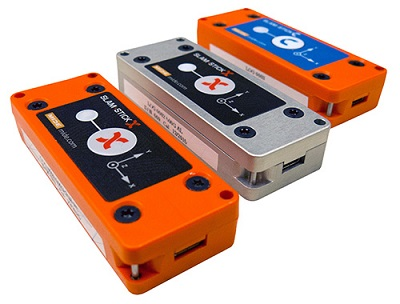
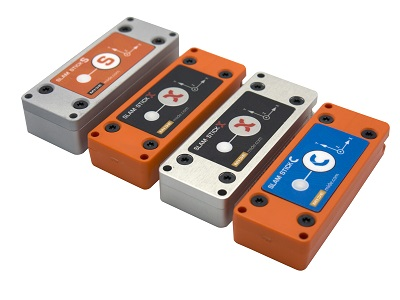
Updated about box; fixed #92

diff --git a/ABOUT/about.html b/ABOUT/about.html
@@ -2,14 +2,8 @@
 <a name="top" href="http://info.mide.com/data-loggers/slam-stick-lab-software"><img src="ssl.jpg"/></a><br/>
 Version {{version}}, build {{buildNumber}}, {{buildTime}}<br/>
 <font size="-1">(last update check: {{lastUpdateCheck}})</font></br>
-<p>Copyright (c) 2017 <a href="http://www.mide.com/">Mid&eacute; Technology</a></p>
+<p>Copyright &copy; {{copyright}} <a href="http://www.mide.com/">Mid&eacute; Technology</a></p>
 </center>
-<!--
-<p>
-This is the <i>new and improved</i> about box. It is here that the software should be described in
-detail. There's a lot of room for whatever.</p>
-<p>
--->
 <br/>
 <hr/>
     <h3>Credits</h3>
@@ -23,7 +17,12 @@ detail. There's a lot of room for whatever.</p>
             <tr>
                 <td width="50%" align="right"><b>Peter Scheidler</b></td>
                 <td>&nbsp;</td>
-                <td width="50%">Developer</td>
+                <td width="50%">Contributing Developer</td>
+            </tr>
+            <tr>
+                <td width="50%" align="right"><b>Connon Flanigan</b></td>
+                <td>&nbsp;</td>
+                <td width="50%">Contributing Developer</td>
             </tr>
             <tr>
                 <td width="50%" align="right"><b>Tim Gipson</b></td>
@@ -32,26 +31,12 @@ detail. There's a lot of room for whatever.</p>
             </tr>
         </table>
     </center>
-</p><hr/>
+<p/><hr/>
 <h3>Supported Products</h3>
 <a href="http://www.mide.com/collections/shock-vibration-data-loggers">
-<h4>Slam&bull;Stick Shock &amp; Vibration Data Loggers</h4></a>
-
+<h4><b>Slam&bull;Stick&trade;</b> Shock &amp; Vibration Data Loggers</h4></a>
 <a href="http://www.mide.com/collections/shock-vibration-data-loggers">
 <center><img src="slamstick_group.jpg"/></center></a>
-<!--
-<ul>
-    <li><a href="http://www.mide.com/collections/shock-vibration-data-loggers/products/slam-stick-c">Slam&bull;Stick C</a></li>
-    <li>Slam&bull;Stick X
-        (<a href="http://www.mide.com/collections/shock-vibration-data-loggers/products/slam-stick-x-plastic">Plastic</a>
-        and <a href="http://www.mide.com/collections/shock-vibration-data-loggers/products/slam-stick-x-metal">Metal</a>)
-</ul>
-
-<a href="http://www.mide.com/products/slamstick/slamstick-vibration-data-logger.php">
-    <h4>Slam&bull;Stick Classic</h4>
-    <center><img src="ssc.jpg"/><br/></center>
-</a>
--->
 <p/>
 <a href="#top">Go to Top</a>
 </body></html>

diff --git a/updater files/slam_stick_lab_changelog.html b/updater files/slam_stick_lab_changelog.html
@@ -4,6 +4,13 @@
     <title>Slam Stick Lab Changelog</title>
   </head>
   <body>
+      <a name="1.9.0"><h3>1.9.0</h3></a>
+      <p>Version <b>1.9.0</b> is a significant update, containing performance improvements and bug fixes. It is recommended for all users.</p>
+      <p>Changes in this release include:</p>
+      <ul>
+          <li>TODO: WRITE RELEASE NOTES!</li>
+      </ul>
+      <hr/>
       <a name="1.8.1"><h3>1.8.1</h3></a>
       <p>Version <b>1.8.1</b> is a maintenance release, containing various improvements and minor bug fixes.</p>
       <p>Changes in this release include:</p>

diff --git a/devices/efm32_firmware.py b/devices/efm32_firmware.py
@@ -833,9 +833,10 @@ class FirmwareFileUpdater(FirmwareUpdater):
             filename = os.path.join(self.device.path, f)
             try:
                 if os.path.exists(filename):
+                    logger.info('Removing old file: %s' % filename)
                     os.remove(filename)
             except (IOError, WindowsError):
-                logger.error('Could not remove file %r' % filename)
+                logger.error('Could not remove file %s' % filename)
                 return False
             
         return True
@@ -846,10 +847,12 @@ class FirmwareFileUpdater(FirmwareUpdater):
         """
         filename = os.path.join(self.device.path, filename)
         try:
+            logger.info("Writing %s" % filename)
             with open(filename, 'wb') as f:
                 f.write(content)
             return True
-        except (IOError, WindowsError):
+        except (IOError, WindowsError) as err:
+            logger.error(str(err))
             return False
         
     

diff --git a/aboutbox.py b/aboutbox.py
@@ -189,10 +189,11 @@ class AboutBox(SC.SizedDialog):
         notebook.AddPage(about, self.strings.get('appName'))
         about.LoadFile(self.makeAboutFile())
         
-        if os.path.exists(self.RELEASE_NOTES):
+        releaseNotes = os.path.join(self.rootDir, self.RELEASE_NOTES)
+        if os.path.exists(releaseNotes):
             notes = HtmlWindow(notebook, -1)
             notebook.AddPage(notes, "Release Notes")
-            notes.LoadPage(self.RELEASE_NOTES)
+            notes.LoadPage(releaseNotes)
         
         licenses = HtmlWindow(notebook, -1)
         notebook.AddPage(licenses, "Licenses")
@@ -232,4 +233,5 @@ if __name__ == '__main__':
            'version': '.'.join(map(str,VERSION)), 
            'buildNumber': BUILD_NUMBER, 
            'buildTime': datetime.fromtimestamp(BUILD_TIME),
+           'copyright': datetime.fromtimestamp(BUILD_TIME).year
         })

diff --git a/viewer.py b/viewer.py
@@ -1743,7 +1743,8 @@ class Viewer(wx.Frame, MenuMixin):
         
         AboutBox.showDialog(self, -1, strings={
            'appName': self.app.GetAppDisplayName(),
-           'version': self.app.versionString, 
+           'version': self.app.versionString,
+           'copyright': datetime.fromtimestamp(BUILD_TIME).year,
            'buildNumber': buildNum, 
            'buildTime': datetime.fromtimestamp(BUILD_TIME),
            'lastUpdateCheck': updateCheck,
